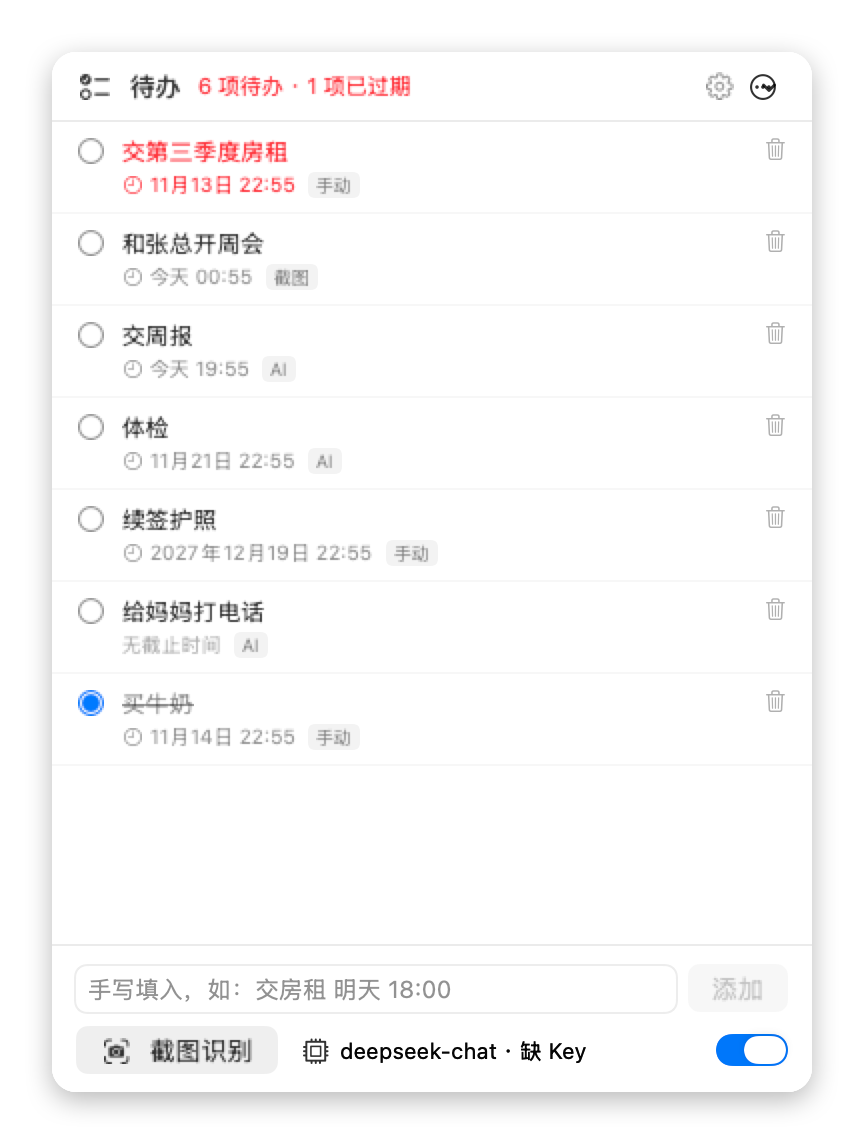
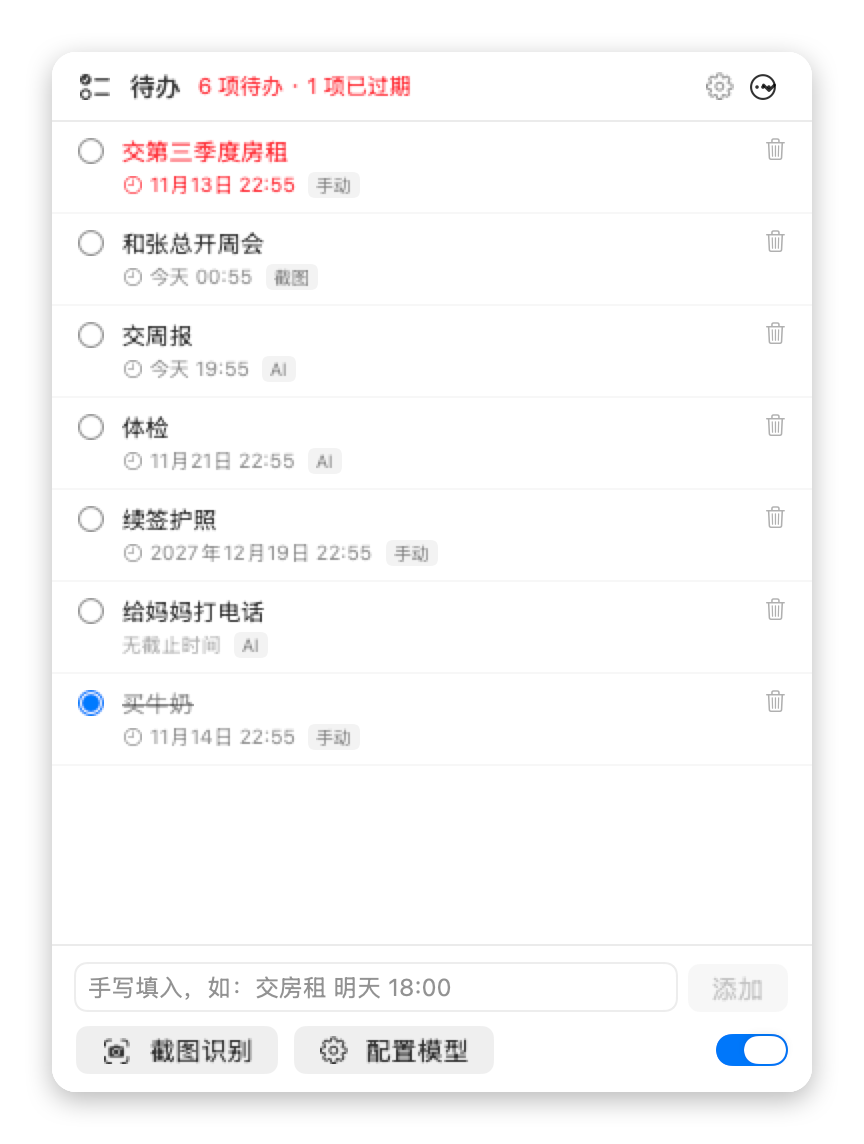
feat: 未配置 Key 时面板的模型菜单替换为「配置模型」按钮

Changed region(s): [[0.25, 0.8566, 0.5625, 0.9484], [0.5938, 0.8872, 0.6875, 0.9484], [0.0938, 0.8566, 0.2188, 0.8872]]

diff --git a/Sources/TodoPanelView.swift b/Sources/TodoPanelView.swift
@@ -204,7 +204,15 @@ struct TodoPanelView: View {
                     Label("截图识别", systemImage: "camera.viewfinder")
                 }
                 .buttonStyle(.bordered)
-                modelMenu
+                if app.keyPresent {
+                    modelMenu
+                } else {
+                    Button { actions.openSettings() } label: {
+                        Label("配置模型", systemImage: "gearshape")
+                    }
+                    .buttonStyle(.bordered)
+                    .help("还没配置 API Key，点这里去填")
+                }
                 Spacer(minLength: 4)
                 Toggle("", isOn: Binding(
                     get: { app.settings.settings.useRemoteModel },

diff --git a/README.md b/README.md
@@ -35,6 +35,7 @@ MIT License · 无第三方依赖 · 纯 Swift / AppKit + SwiftUI
 | 底部输入框回车 | 手写填入，**添加时自动解析**出事项与截止时间后写入（无需额外按钮） |
 | ⌃⌥T / 「截图识别」 | 框选屏幕区域 → 本机 Vision 取字 → 自动解析 → 写入 |
 | 「截图识别」右侧的模型菜单 | 从设置里多选保留的模型列表中挑一个实际调用，选中即生效 |
+| 同一位置（未配置 Key 时） | 显示「配置模型」按钮，点开直接进设置去填 Key |
 | 同一行的开关 | 「用 API 模型」：开=远端模型解析，关=本地规则解析；没填 Key 时标签会标「· 缺 Key」并仍走本地规则 |
 | 「⋯」 | 清除已完成 / 打开数据文件夹 / 退出 |
 
@@ -94,7 +95,8 @@ Sources/
 
 | 文件 | 内容 |
 | --- | --- |
-| `panel.png` | 面板全态（今天/明天 与日期形式混排、无截止时间置底、已完成沉底、过期标红） |
+| `panel.png` | 面板全态（已配置 Key：模型菜单） |
+| `panel-nokey.png` | 未配置 Key 时的面板（模型菜单位置换成「配置模型」按钮） |
 | `panel-empty.png` | 空列表态 |
 | `settings.png` | 设置窗全貌（Base URL → 模型提供商 → 模型，Key 保存并测试 / 显示 / 复制） |
 | `model-chooser.png` | 保存 Key 后弹出的可用模型多选框（全选/清空/完成） |
